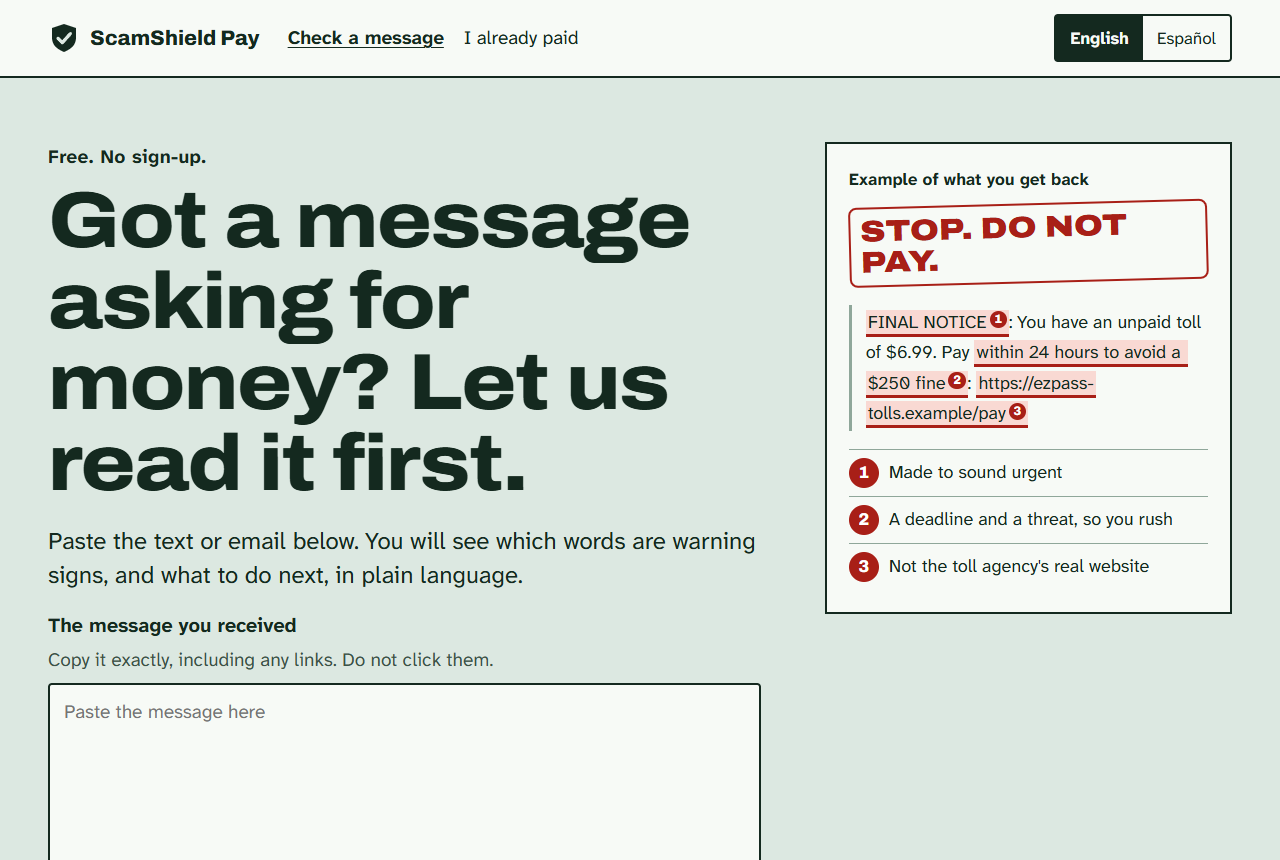
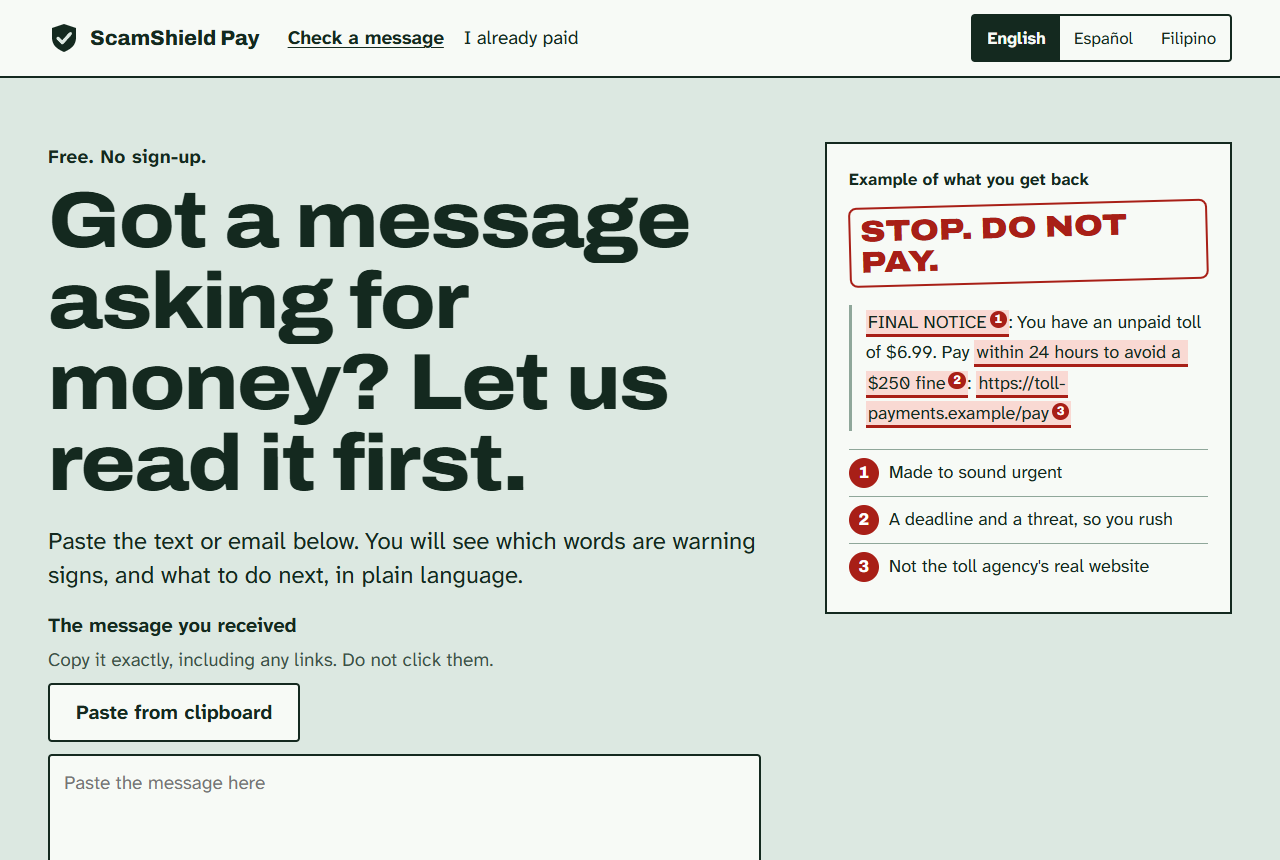
Retake README screenshots from the live site and tidy the README

Changed region(s): [[0.0312, 0.786, 0.5938, 0.9372], [0.75, 0.0, 0.9688, 0.0907], [0.6875, 0.4233, 0.875, 0.514]]

diff --git a/README.md b/README.md
@@ -34,10 +34,6 @@ Scam texts and emails reach people every day, and many of them cannot tell a fak
 
 - Cloudflare Workers, with data in Cloudflare D1.
 
-Paste a suspicious text or email and get a free, plain-language verdict before any money moves. People who already paid get a free step-by-step guide, and can buy a dispute kit: a letter, a phone script, and an evidence checklist written for their case.
-
-English, Spanish, and Filipino. Built with Next.js, PayPal, and Claude or Google Gemini.
-
 ![A result page: a red "Stop. Do not pay." stamp above the reader's message, with each warning sign highlighted, numbered, and explained alongside](docs/screenshots/result.png)
 
 <table>
@@ -59,7 +55,7 @@ npm run dev                  # http://localhost:3000
 
 | Variable | Needed for | Where to get it |
 | --- | --- | --- |
-| `AI_PROVIDER` | `gemini` or `claude` (default). The live site uses `gemini` | Your choice |
+| `AI_PROVIDER` | `gemini` (set in .env.example) or `claude` | Your choice |
 | `GEMINI_API_KEY` | Checks and dispute kits with Gemini, free tier | [Google AI Studio](https://aistudio.google.com/apikey) |
 | `DEMO_MODE` | `true` runs without any AI, using labelled pattern rules | Testing only |
 | `PAYPAL_CLIENT_ID`, `PAYPAL_CLIENT_SECRET` | Taking payment | [PayPal developer dashboard](https://developer.paypal.com/dashboard/applications), Sandbox app to start |
@@ -114,6 +110,7 @@ The message being judged may be written by a criminal, and the worst failure is 
 - **Nothing from the message is clickable.** It is rendered as plain text.
 - **The browser never decides a payment.** The server sets the price, and the kit unlocks only after PayPal's own response matches the check, amount, and currency. Webhooks are signature-verified and invoice state is re-fetched from PayPal. A refunded kit stays closed.
 - **Emergency help is never behind the paywall.** The guide and official contacts are free.
+- Pasted messages are stored in plain text in Cloudflare D1 and deleted after 24 hours, or 30 days for paid kits.
 
 ## Tests
 
